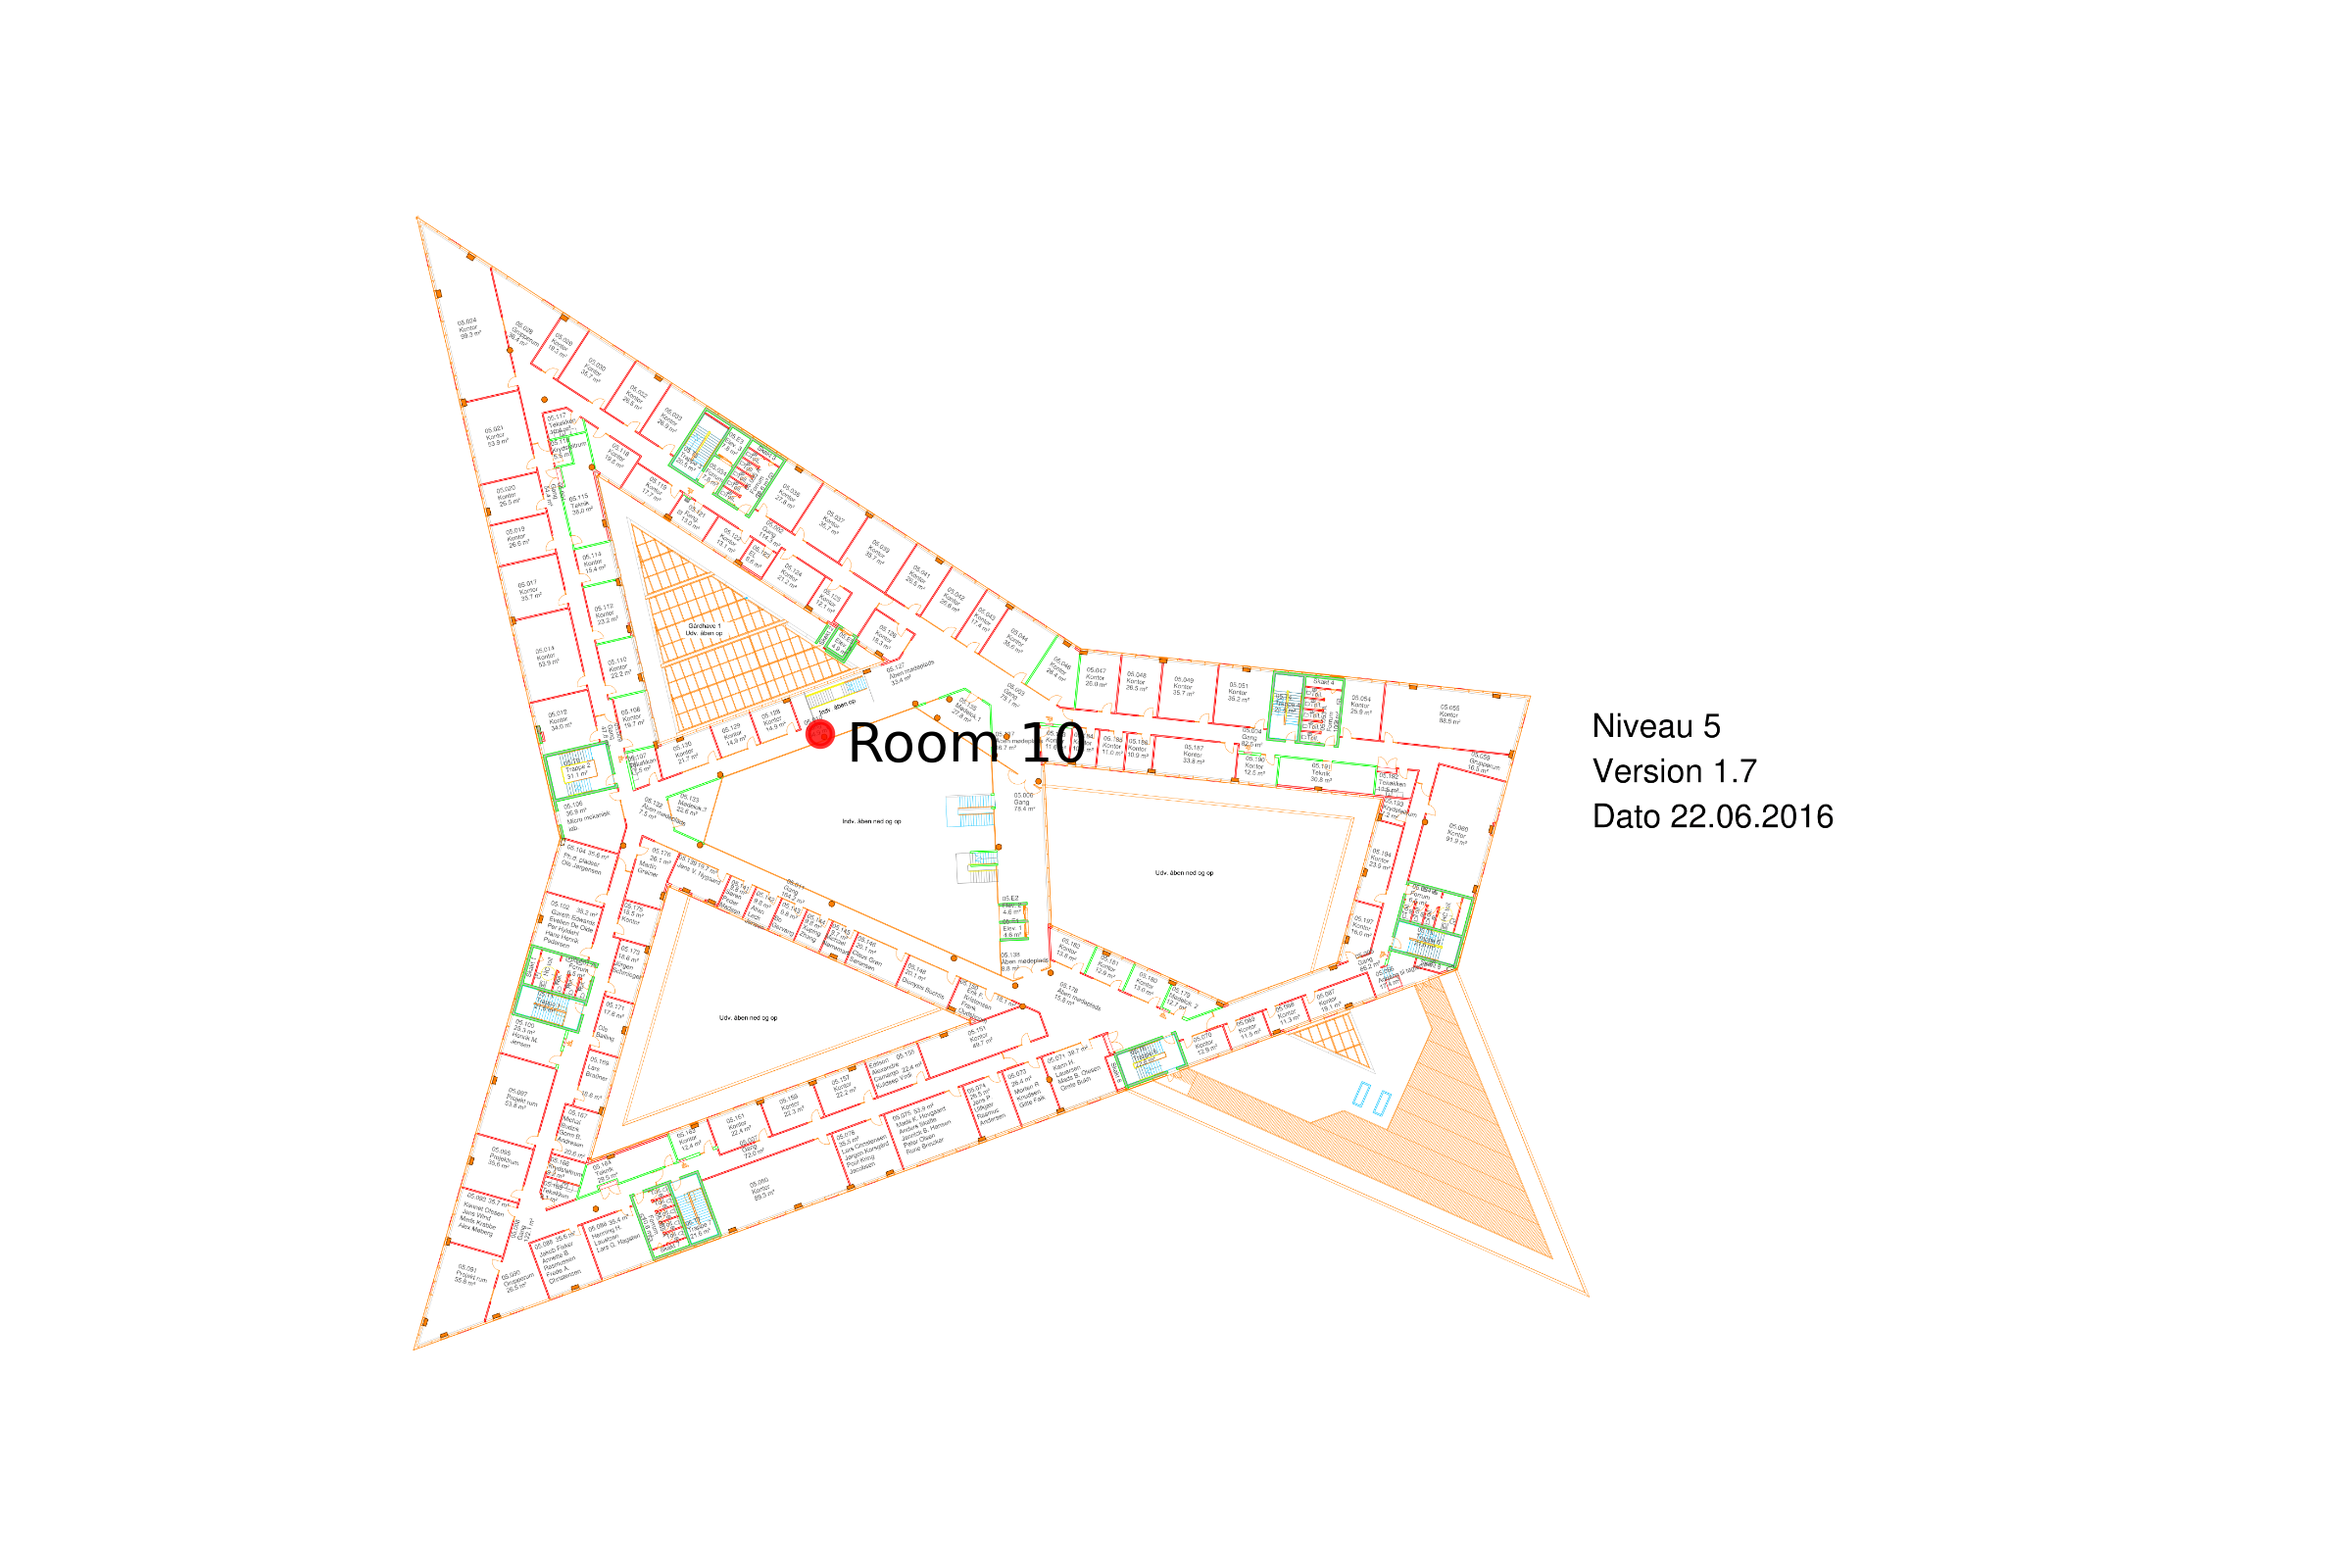
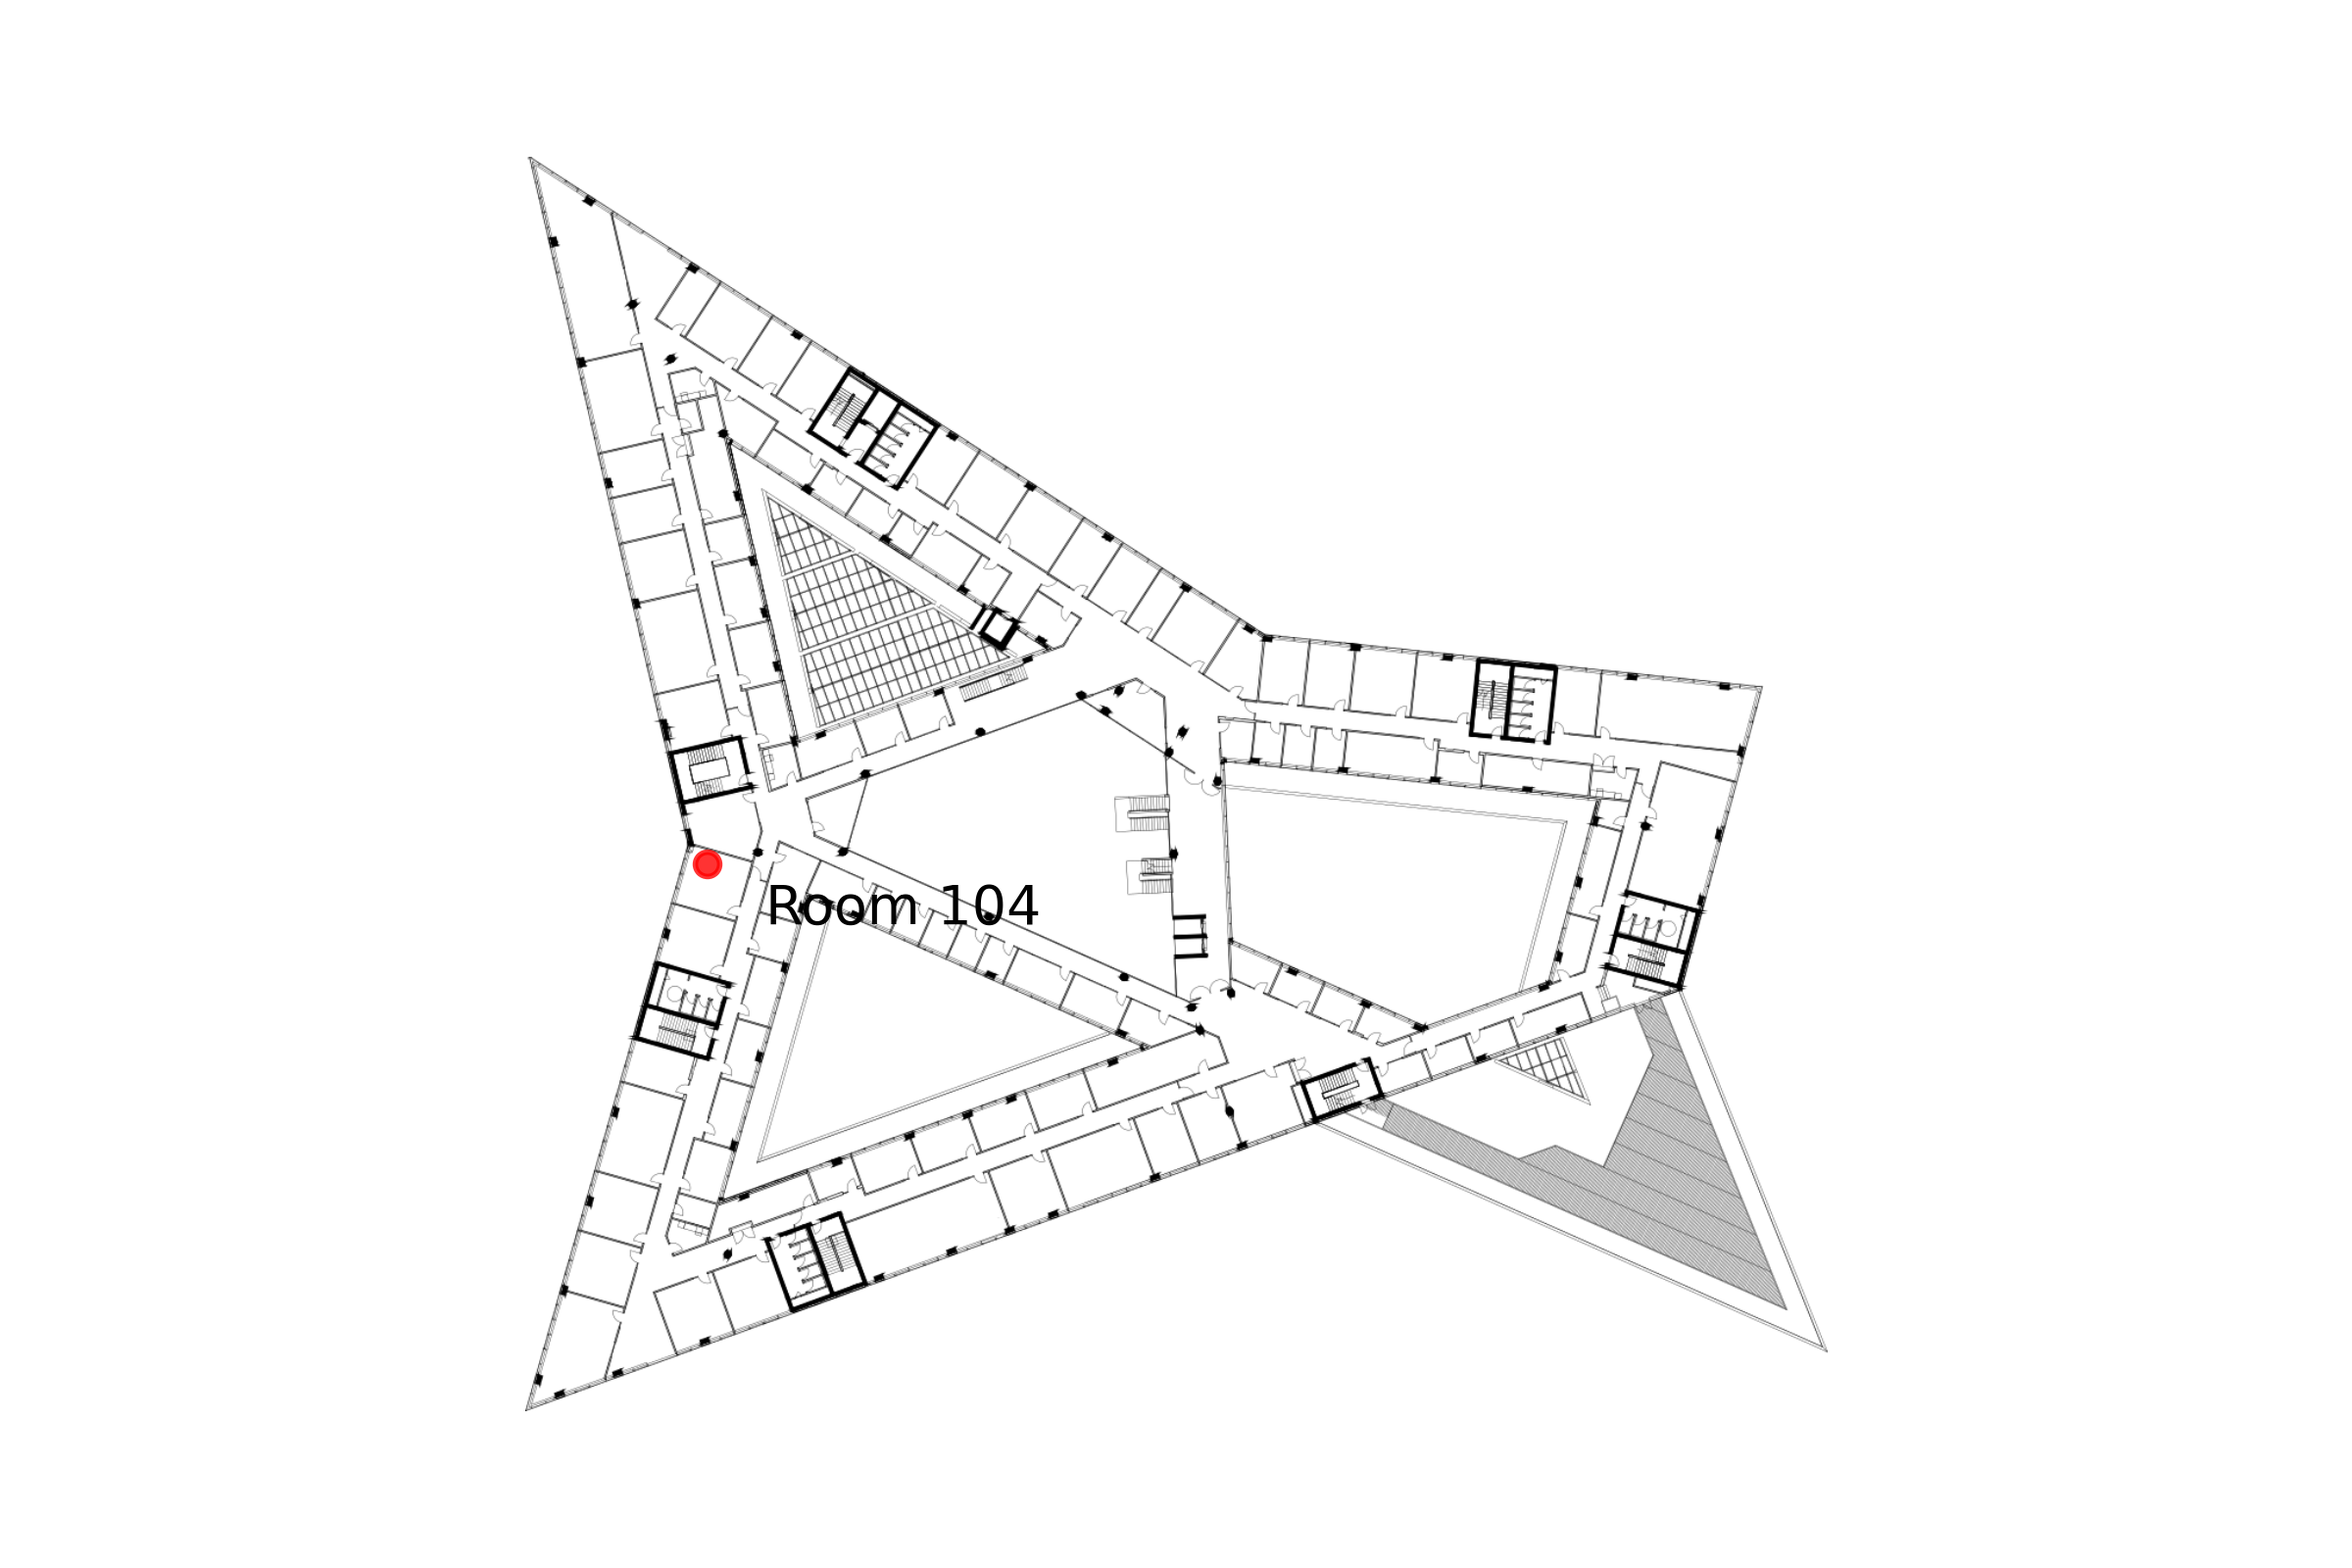
Overall prettyfying stuff
Better room location and maps cleaned up

Changed region(s): [[0.1875, 0.1562, 0.7812, 0.875], [0.2188, 0.0938, 0.2812, 0.1562], [0.2188, 0.875, 0.25, 0.9062]]

diff --git a/code/navnav_funcs.py b/code/navnav_funcs.py
@@ -34,36 +34,36 @@ def show_room_order(chosen_floor):
     # n_data contain [360,91,72] i.e. degrees, days, turbines
     navnav_coors = np.array(mat['coors'])
     
+    # Negative x moves to the left, negative y moves upward
     
     if chosen_floor == 0:
-    
         # Floor 0
-        scaling = 2.4
-        add_x = -610#-450
-        add_y = -130
+        scaling = 1.28
+        add_x = -380
+        add_y = -160
     elif chosen_floor == 1:
         # Floor 1
-        scaling = 2.4
-        add_x = -610#-450
-        add_y = -130
+        scaling = 1.35
+        add_x = -410
+        add_y = -238
     elif chosen_floor == 3:
         # Floor 3
-        scaling = 2.4
-        add_x = -600#-450
-        add_y = -100
+        scaling = 1.282
+        add_x = -680
+        add_y = -160
         #chosen_floor = chosen_floor -1
     elif chosen_floor == 4: 
         # Floor 4
-        scaling = 2.4
-        add_x = -600#-450
-        add_y = -85
+        scaling = 1.28
+        add_x = -388
+        add_y = -166
         #chosen_floor = chosen_floor -1
     elif chosen_floor == 5:
         # Floor 5
-        scaling = 2.4
-        add_x = -610#-450
-        add_y = -100
-        #chosen_floor = chosen_floor -1
+        scaling = 1.217
+        add_x = -430
+        add_y = -114
+        
         
     if chosen_floor > 2:
         chosen_floor_data = chosen_floor -1
@@ -84,8 +84,8 @@ def show_room_order(chosen_floor):
     plt.colorbar(sc)
     
         
-    maps = Image.open('../maps/png/'+str(chosen_floor)+'.png')
-        
+    #maps = Image.open('../maps/png/'+str(chosen_floor)+'.png')
+    maps = Image.open('../maps/final_png/'+str(chosen_floor)+'_png.png')    
     
     
     plt.imshow(maps,cmap='gray',vmin=0,vmax=255)
@@ -106,35 +106,35 @@ def search_room(chosen_floor,room):
     # n_data contain [360,91,72] i.e. degrees, days, turbines
     navnav_coors = np.array(mat['coors'])
     
-    if chosen_floor == 0:
+    # Negative x moves to the left, negative y moves upward
     
+    if chosen_floor == 0:
         # Floor 0
-        scaling = 2.4
-        add_x = -610#-450
-        add_y = -130
+        scaling = 1.28
+        add_x = -380
+        add_y = -160
     elif chosen_floor == 1:
         # Floor 1
-        scaling = 2.4
-        add_x = -610#-450
-        add_y = -130
+        scaling = 1.35
+        add_x = -410
+        add_y = -238
     elif chosen_floor == 3:
         # Floor 3
-        scaling = 2.4
-        add_x = -600#-450
-        add_y = -100
+        scaling = 1.282
+        add_x = -680
+        add_y = -160
         #chosen_floor = chosen_floor -1
     elif chosen_floor == 4: 
         # Floor 4
-        scaling = 2.4
-        add_x = -600#-450
-        add_y = -85
+        scaling = 1.28
+        add_x = -388
+        add_y = -166
         #chosen_floor = chosen_floor -1
     elif chosen_floor == 5:
         # Floor 5
-        scaling = 2.4
-        add_x = -610#-450
-        add_y = -100
-        #chosen_floor = chosen_floor -1
+        scaling = 1.217
+        add_x = -430
+        add_y = -114
     
 
     if chosen_floor > 2:
@@ -159,7 +159,7 @@ def search_room(chosen_floor,room):
     ax.axis('off')
     
 
-    maps = Image.open('../maps/png/'+str(chosen_floor)+'.png')
+    maps = Image.open('../maps/final_png/'+str(chosen_floor)+'_png.png')
         
     
     plt.imshow(maps,cmap='gray',vmin=0,vmax=255)
@@ -167,41 +167,38 @@ def search_room(chosen_floor,room):
     plt.savefig('../maps/map_test.png',dpi = 400)
 
 
-def search_room_web(chosen_floor,room):
-    # Now searching through list for location
-    mat = scipy.io.loadmat('navnav_coors_improved.mat')
-    # n_data contain [360,91,72] i.e. degrees, days, turbines
-    navnav_coors = np.array(mat['coors'])
+def search_room_web(chosen_floor,room,navnav_coors):
+    
+    
+    # Negative x moves to the left, negative y moves upward
     
     if chosen_floor == 0:
-    
         # Floor 0
-        scaling = 2.4
-        add_x = -610#-450
-        add_y = -130
+        scaling = 1.28
+        add_x = -380
+        add_y = -160
     elif chosen_floor == 1:
         # Floor 1
-        scaling = 2.4
-        add_x = -610#-450
-        add_y = -130
+        scaling = 1.35
+        add_x = -410
+        add_y = -238
     elif chosen_floor == 3:
         # Floor 3
-        scaling = 2.4
-        add_x = -600#-450
-        add_y = -100
+        scaling = 1.282
+        add_x = -680
+        add_y = -160
         #chosen_floor = chosen_floor -1
     elif chosen_floor == 4: 
         # Floor 4
-        scaling = 2.4
-        add_x = -600#-450
-        add_y = -85
+        scaling = 1.28
+        add_x = -388
+        add_y = -166
         #chosen_floor = chosen_floor -1
     elif chosen_floor == 5:
         # Floor 5
-        scaling = 2.4
-        add_x = -610#-450
-        add_y = -100
-        #chosen_floor = chosen_floor -1
+        scaling = 1.217
+        add_x = -430
+        add_y = -114
     
 
     if chosen_floor > 2:
@@ -227,12 +224,12 @@ def search_room_web(chosen_floor,room):
     ax.axis('off')
     
 
-    maps = Image.open('../maps/png/'+str(chosen_floor)+'.png')
+    maps = Image.open('../maps/final_png/'+str(chosen_floor)+'_png.png')
         
     
     plt.imshow(maps,cmap='gray',vmin=0,vmax=255)
     
-    plt.savefig('../maps/web/'+str(chosen_floor)+'/'+str(room)+'.png',dpi = 400)
+    plt.savefig('../maps/navnav_web/'+str(chosen_floor)+'/'+str(room)+'.png',dpi = 400)
     
-
+    plt.close('all')
     

diff --git a/code/main.py b/code/main.py
@@ -19,20 +19,25 @@ import scipy.io
 if __name__ == '__main__': 
     
     # Show full floor room layout
-    #show_room_order(1) 
+    #show_room_order(5) 
     
     # Create maps for webpage
     run_navnav_web = 0
     if run_navnav_web == 1:
         
+        # Now searching through list for location
+        mat = scipy.io.loadmat('navnav_coors_improved.mat')
+        # n_data contain [360,91,72] i.e. degrees, days, turbines
+        navnav_coors = np.array(mat['coors'])
         
-        chosen_floor = 0#int(user_input[0:2]) 
         
-        for room in xrange(250):
-
-            
-            # Now plotting location on map background
-            search_room_web(chosen_floor,room)
+        for chosen_floor in [0,1,3,4,5]: 
+        
+            for room in xrange(250):
+    
+                print 'Now plotting floor ' + str(chosen_floor)+', room ' + str(room)
+                # Now plotting location on map background
+                search_room_web(chosen_floor,room,navnav_coors)
         
         print 
         print 'Your map can be found in /maps/map_test.png'
